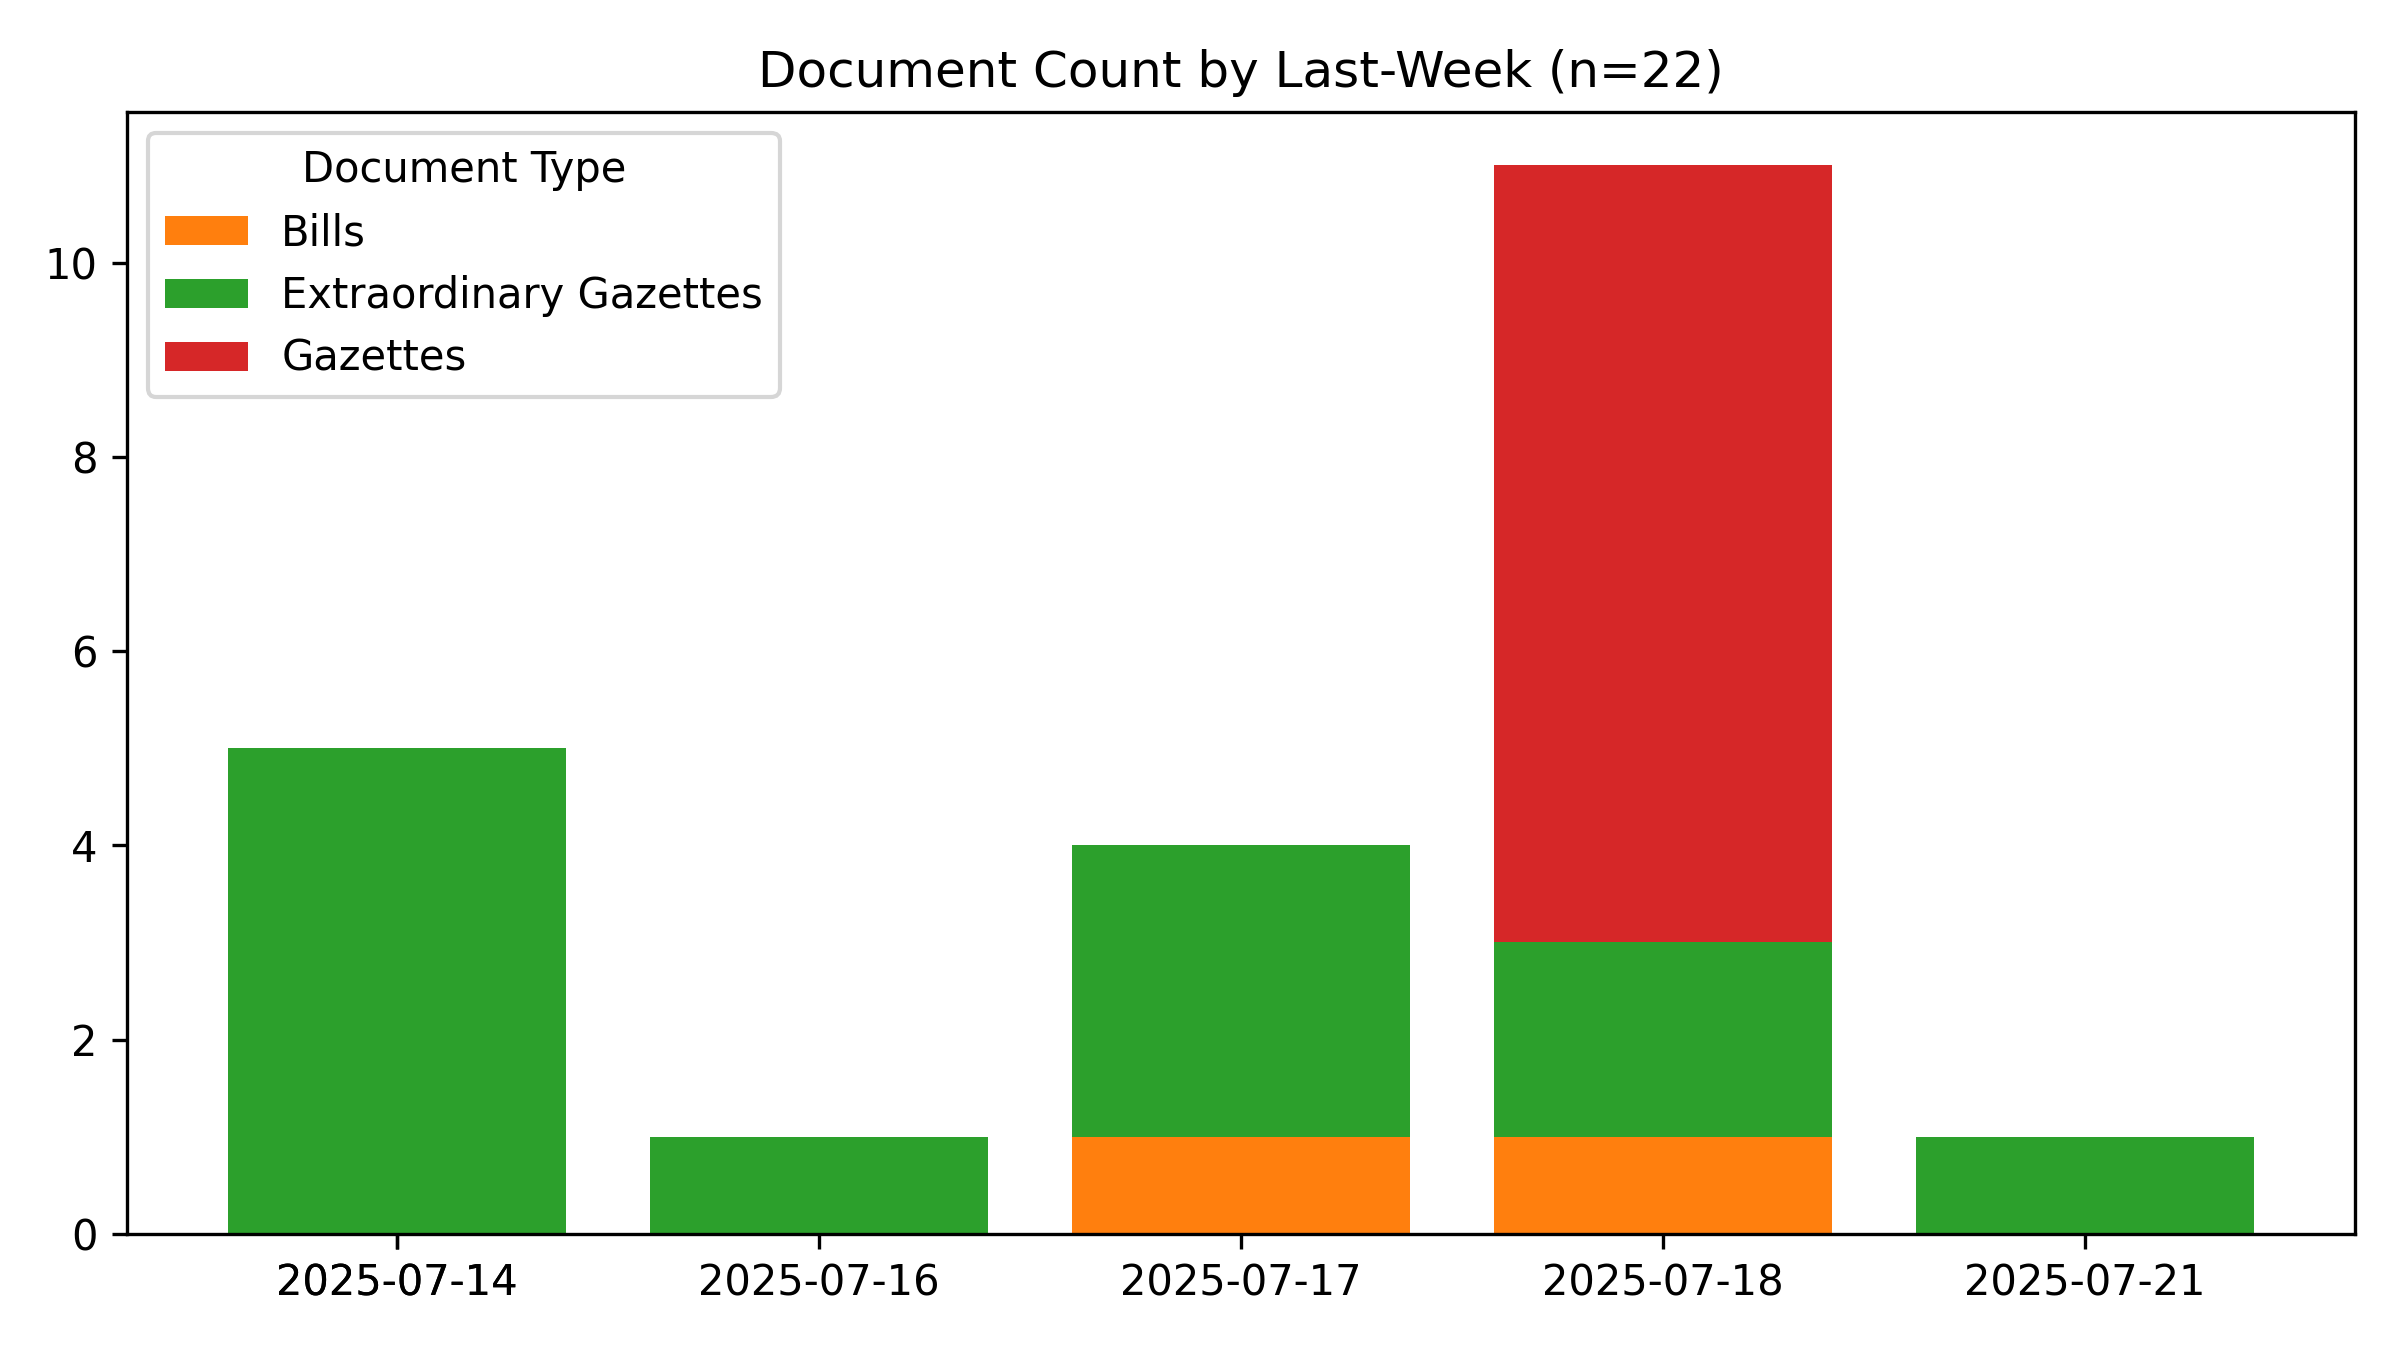
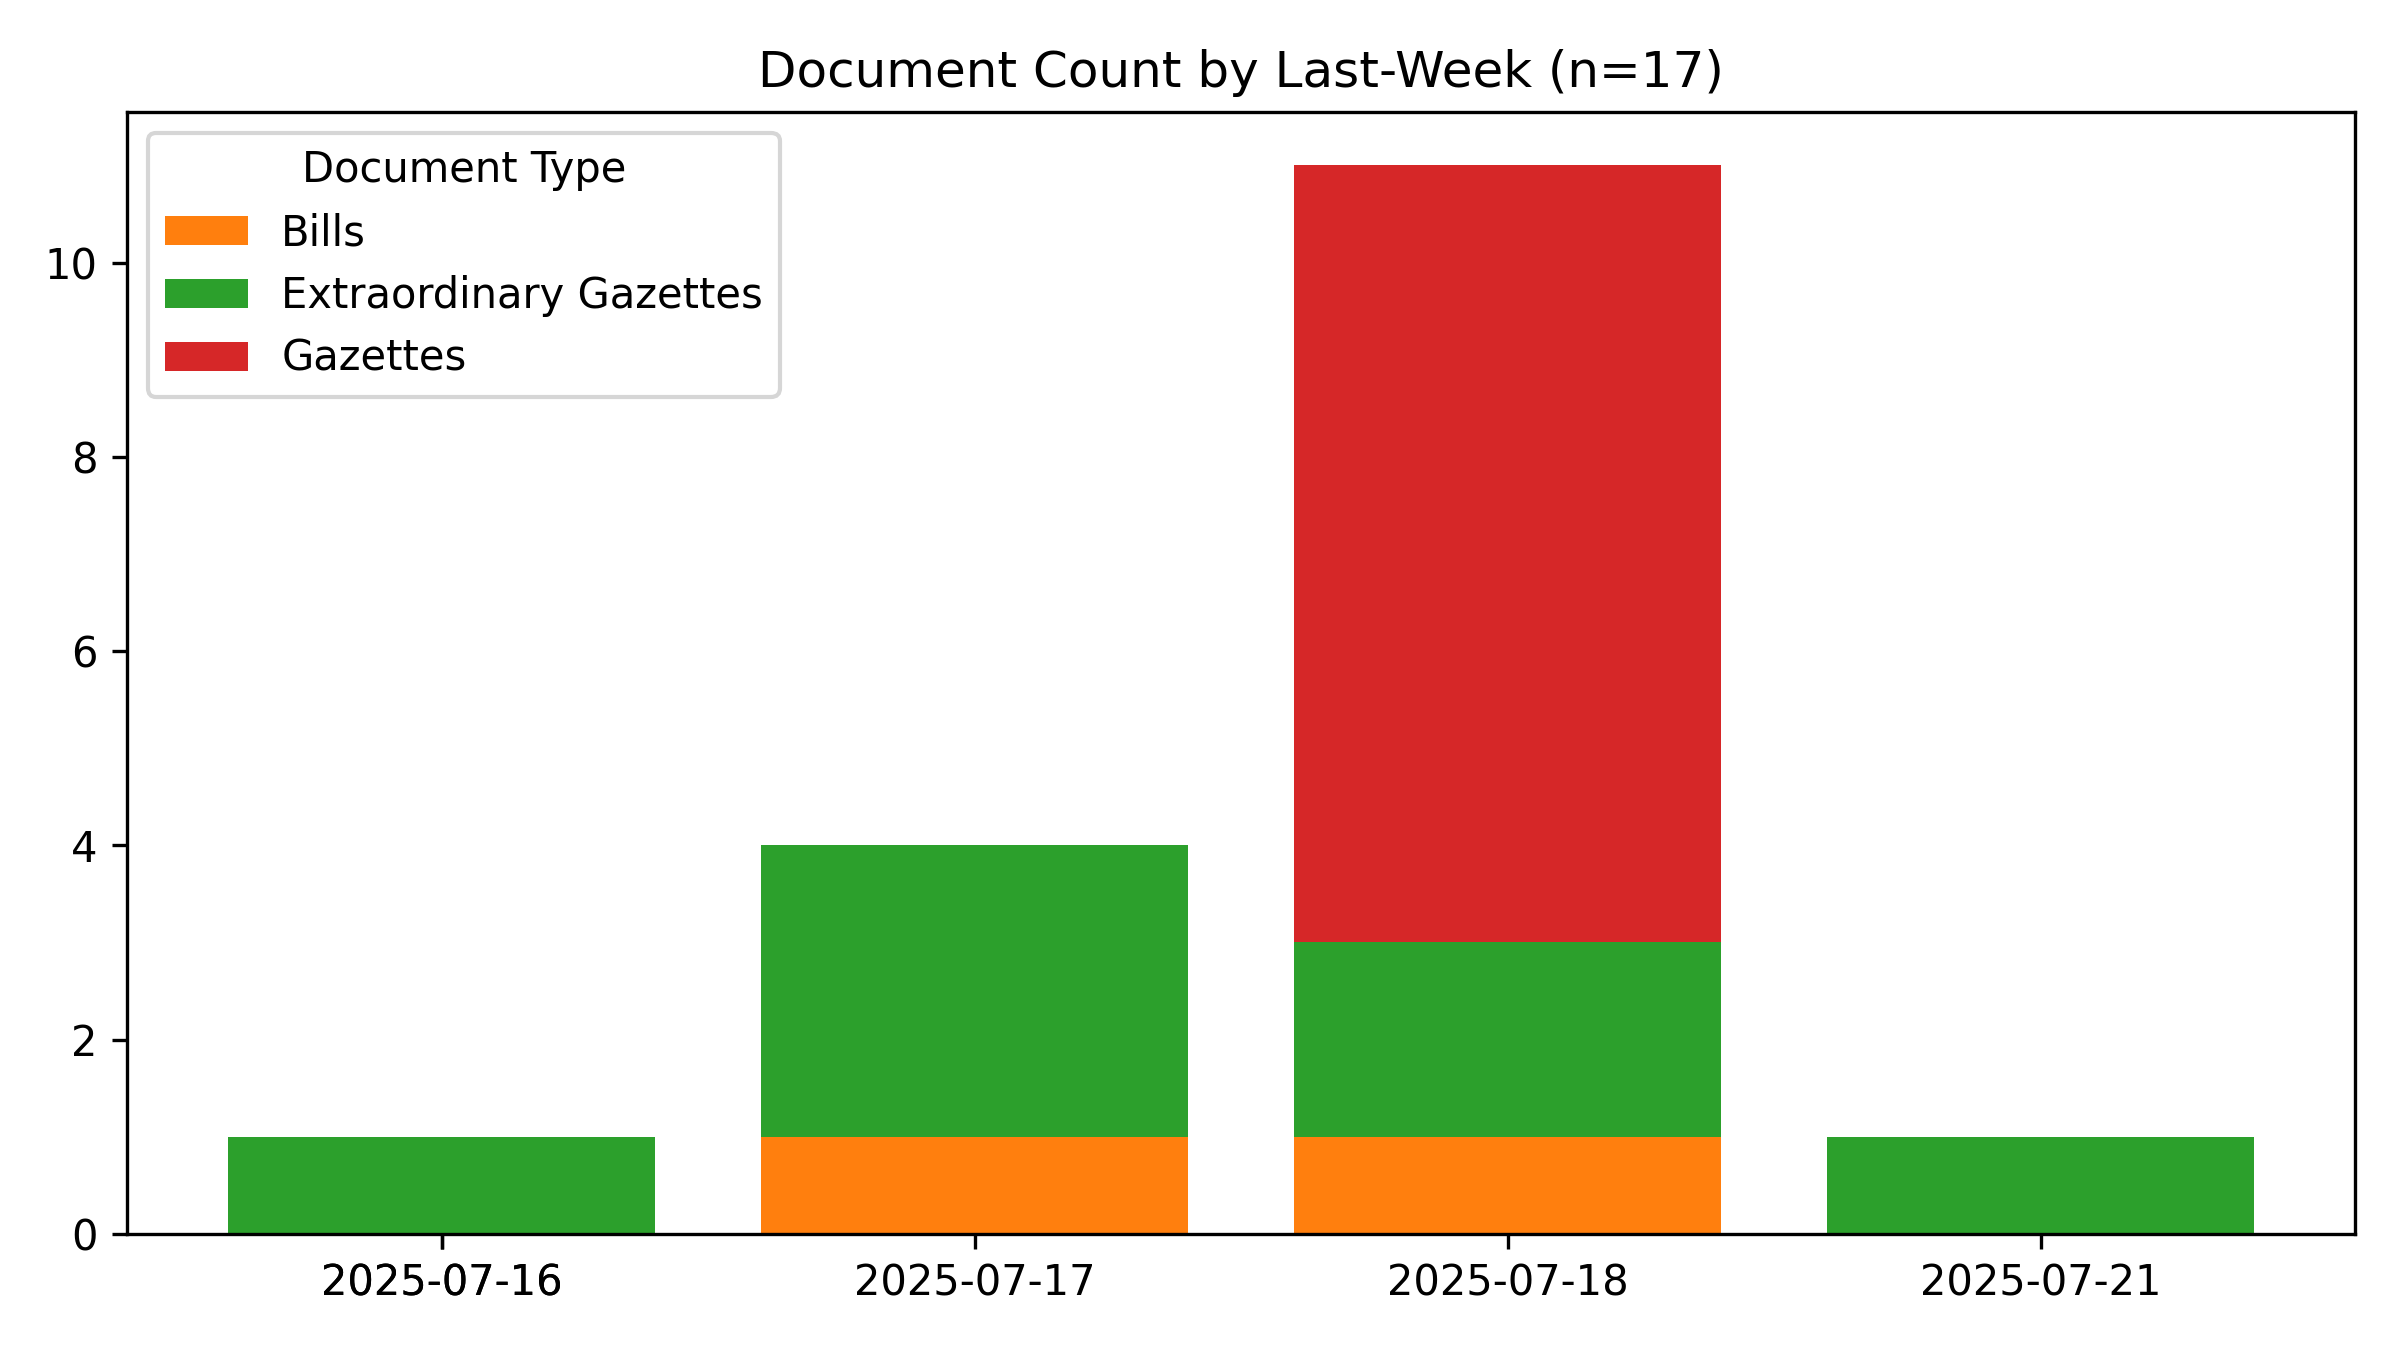
🤖 [data_scraper.yml] 2025-07-22-0009

Changed region(s): [[0.0938, 0.1244, 0.8125, 0.9644], [0.8125, 0.9333, 0.9062, 0.9644], [0.6875, 0.0311, 0.7188, 0.0622]]

diff --git a/README.md b/README.md
@@ -1,6 +1,6 @@
 # #SriLanka 🇱🇰 - Legal Documents #Dataset
 
-*Last Updated **2025-07-22 05:25:23**.*
+*Last Updated **2025-07-22 05:39:07**.*
 
 **44,067** documents (40.9 MB), from 1981-01-22 to 2025-07-21.
 
@@ -16,7 +16,7 @@ A collection of 📢 Gazettes, 🚨 Extraordinary Gazettes, 🏛 Acts, ✍
 
 #Legal #OpenData #GovTech
 
-📄 Currently, 61,604 PDFs (24.3 GB) for **22,138** documents (50.2%) have been downloaded. Final data size is estimated to be ~48 GB.
+📄 Currently, 61,716 PDFs (24.3 GB) for **22,174** documents (50.3%) have been downloaded. Final data size is estimated to be ~48 GB.
 
 ## 🆕 The Legal Documents App
 
@@ -45,7 +45,7 @@ For best results, use a desktop browser.
 
 ## Recent Documents (Published during the last 7 days)
 
-**22** Documents
+**17** Documents
 
 - 🚨 [2025-07-21] [National Medicines Regulatory Authority - Medicines (Pricing Mechanism for Medicines) Regulations No. 02 of 2025.](https://github.com/nuuuwan/lk_legal_docs_data/tree/main/data/extra-gazettes/2025/2446-34)
 - ✍ [2025-07-18] [Institute of Facilities Management Sri Lanka (Incorporation) - GS](https://github.com/nuuuwan/lk_legal_docs_data/tree/main/data/bills/2025/623-2025)
@@ -64,8 +64,3 @@ For best results, use a desktop browser.
 - 🚨 [2025-07-17] [Department of Local Government - Western Province - Notice under Section 66C(1) Appointed Chairman and Vice Chairman of 03 L.G. Institutions](https://github.com/nuuuwan/lk_legal_docs_data/tree/main/data/extra-gazettes/2025/2445-47)
 - 🚨 [2025-07-17] [Dept. of Local Government - NWP Notice Under Section 66C (4) Appointed Chairman and Vice Chirman to the 02 L.G. Institutions](https://github.com/nuuuwan/lk_legal_docs_data/tree/main/data/extra-gazettes/2025/2445-46)
 - 🚨 [2025-07-16] [2445/32](https://github.com/nuuuwan/lk_legal_docs_data/tree/main/data/extra-gazettes/2025/2445-32)
-- 🚨 [2025-07-14] [2445/05](https://github.com/nuuuwan/lk_legal_docs_data/tree/main/data/extra-gazettes/2025/2445-05)
-- 🚨 [2025-07-14] [2445/04](https://github.com/nuuuwan/lk_legal_docs_data/tree/main/data/extra-gazettes/2025/2445-04)
-- 🚨 [2025-07-14] [2445/03](https://github.com/nuuuwan/lk_legal_docs_data/tree/main/data/extra-gazettes/2025/2445-03)
-- 🚨 [2025-07-14] [2445/02](https://github.com/nuuuwan/lk_legal_docs_data/tree/main/data/extra-gazettes/2025/2445-02)
-- 🚨 [2025-07-14] [Sri Lanka Customs - Rates of Exchange with effect from 14.07.2025 to 20.07.2025](https://github.com/nuuuwan/lk_legal_docs_data/tree/main/data/extra-gazettes/2025/2445-01)
